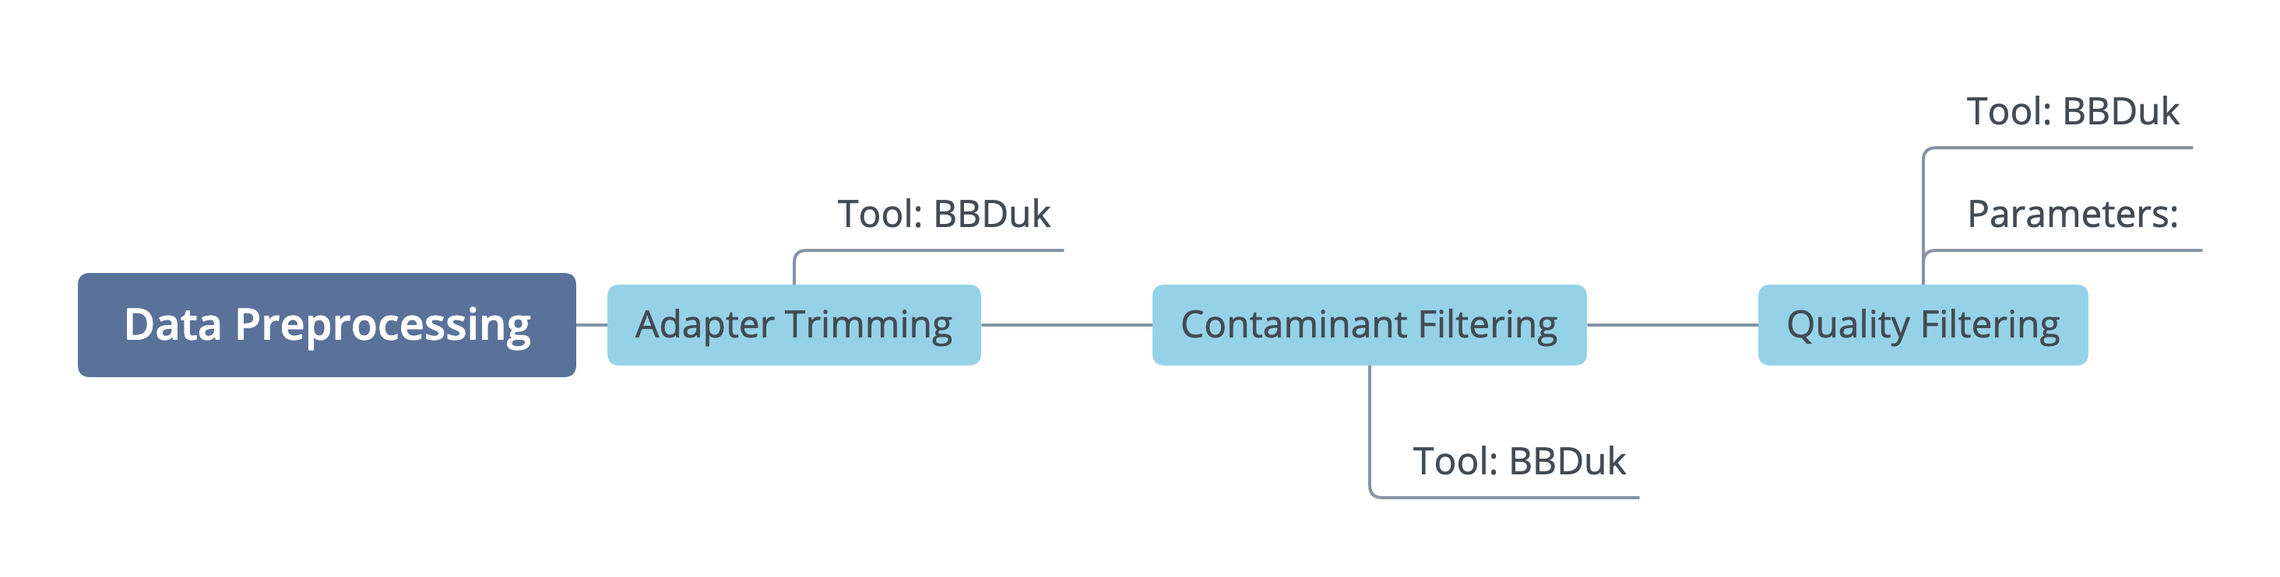
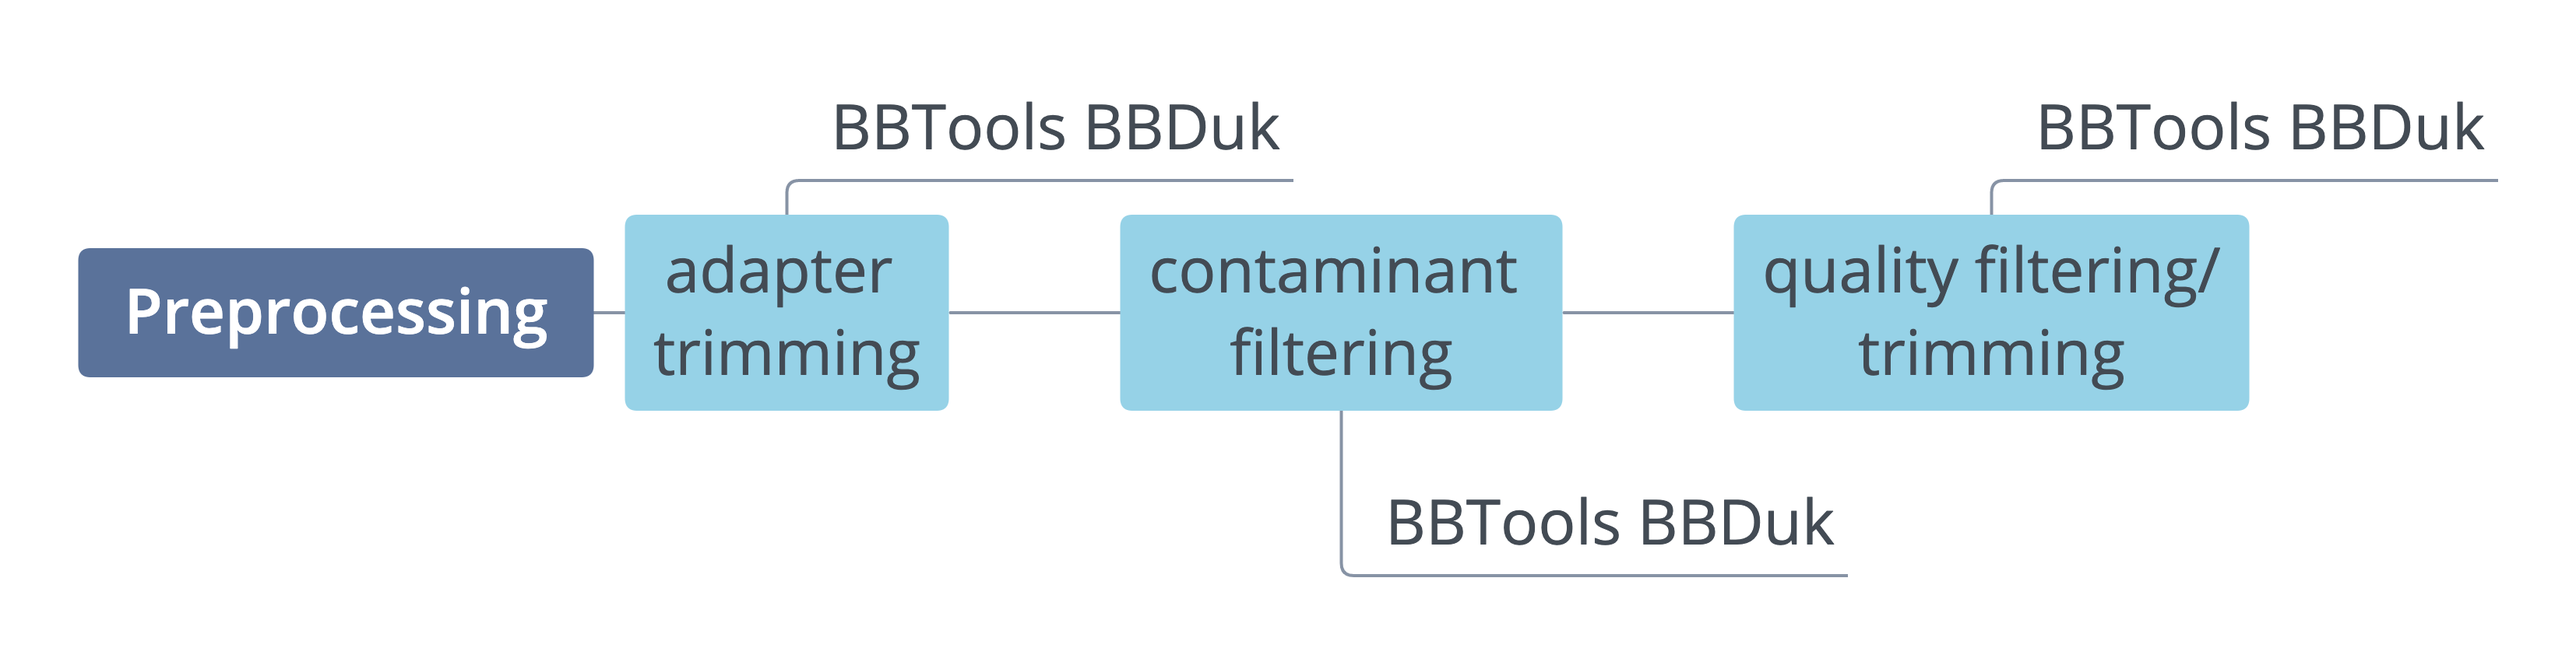
added first 3 preprocessing steps. updated flowchart

diff --git a/docs/preprocessing/preprocessing.rst b/docs/preprocessing/preprocessing.rst
@@ -6,7 +6,7 @@ Data Preprocessing
 General Considerations
 -----------------------
 
-Data quality control and preprocessing is an essential first step to any bioinformatic workflow. Below we discuss current preprocessing steps we recommend for **short read Illumina** sequencing data. Broadly, these steps involve Illumina adapter removal, contaminant filtering and quality-trimming. Additional preprocessing steps, recommended only for specific workflows are detailed in :ref:`Other Considerations`.
+Data quality control is an essential first step to any bioinformatic workflow. Below we discuss recommended preprocessing steps we recommend for **short read Illumina** sequencing data. Broadly, these steps involve Illumina adapter removal, contaminant filtering and quality-trimming. Additional preprocessing steps, recommended only for specific workflows are detailed in :ref:`Other Considerations`.
 
 .. important::
 
@@ -15,14 +15,7 @@ Data quality control and preprocessing is an essential first step to any bioinfo
 
 .. image:: ../images/Preprocessing.png
 
-1.  **Adapter Trimming**. The adapter sequences contain the sequencing primer binding site, index sequences, and sequences that allow flow-cell binding. Unless removed, these can interfere with downstream analyses. For this and other preproccessing we use Joint Genome Institute developed set of tools `BBTools <https://jgi.doe.gov/data-and-tools/bbtools/bb-tools-user-guide/>`_. *Write something about how it workds*. Adpater trimming is perfomed using **BBDuk**. The example command is show below.
-
-    - *-Xmx1G* sets a limit on memory (?)
-    - *usejni=t* ? makes it faster?
-    - *ktrim=r* will trim the bases that match the adapter, as well as all the bases to the right of the adapter sequence
-    - *k=23* length of the k-mer used for matching
-    - *mink=11* additionally look for shorter k-mers (length 23 to 11)
-    - *hdist=1* hamming distance for reference k-mers
+1.  **Adapter Trimming**. The adapter sequences contain the sequencing primer binding site, index sequences, and sequences that allow flow-cell binding. Unless removed, these can interfere with downstream analyses. For this and other preproccessing we use Joint Genome Institute developed set of tools `BBTools <https://jgi.doe.gov/data-and-tools/bbtools/bb-tools-user-guide/>`_. Adpater trimming is perfomed using **BBDuk**. In this step, FASTA file with Illumina adapter sequences is specified as reference, and BBDuk will perform k-mer matching to trim the adapter sequences from the reads. The example command is show below.
 
     **Example command**
         .. code-block:: console
@@ -33,39 +26,66 @@ Data quality control and preprocessing is an essential first step to any bioinfo
             refstats=<output_adapter_stats> statscolumns=5 overwrite=t ref=<input.adapters> \
             ktrim=r k=23 mink=11 hdist=1  2>> <log_file>
 
+**Options Explained**
+
+========    =========================================================================================================
+-Xmx1G      sets a limit on memory (?)
+usejni=t    makes it faster?
+ktrim=r     trim the adapter, as well as all the bases to the right of the adapter sequence
+k=23        length of the k-mer used for matching
+mink=11     additionally match shorter k-mers (with lengths between 23 and 11)
+hdist=1     hamming distance for reference k-mers
+========    =========================================================================================================
+
+
 .. note::
 
     `Why do we only trim adapters on the 3' ends? <https://emea.support.illumina.com/bulletins/2016/04/adapter-trimming-why-are-adapter-sequences-trimmed-from-only-the--ends-of-reads.html>`_
 
-2. Contaminant removal.
+2. **Contaminant removal**. Spike-ins (most commonly PhiX) are usually used for quality control of sequencing runs, as well as to ensure nucleotide diversity when sequencing low complexity libraries. These sequences need to be filtered out prior to downstream analysis.
+
+..note:: PhiX and low complexity libraries: https://emea.support.illumina.com/bulletins/2017/02/how-much-phix-spike-in-is-recommended-when-sequencing-low-divers.html
+https://emea.support.illumina.com/bulletins/2016/07/what-is-nucleotide-diversity-and-why-is-it-important.html Check latest information about your sequencing platform.
+
+    Here we also use BBDuk; the command is very similar to the one shown above, however here we provide FASTA file of PhiX genome as the reference.
 
     **Example command**
 
     .. code-block:: console
 
-        bbduk.sh -Xmx1G usejni=t pigz=t bgzip=f interleaved=true overwrite=t \
-        in=stdin.fq out=stdout.fq outm={output.phix_matched} outs={output.phix_singletons} \
-        ref={input.phix} k=31 hdist=1 refstats={output.phix_stats} statscolumns=5 2>> {log.log}
+        bbduk.sh -Xmx1G usejni=t in=<forward_fastq> in2=<reverse_fastq> \
+        out=<forward_filtered_fastq> out2=<reverse_filtered_fastq> \
+        outm={output.phix_matched} outs={output.phix_singletons} \
+        ref={phix.fasta} k=31 hdist=1 refstats={output.phix_stats} statscolumns=5 2>> {log.log}
 
 
-3. Quality filtering.
+3. **Quality filtering and trimming**. In this step we use BBDuk to trim low quality bases from the ends of the reads, and filter reads based on length, average read quality, and number of Ns present.
+
     **Example command**
 
     .. code-block:: console
 
-        bbduk.sh -Xmx1G pigz=t bgzip=f usejni=t overwrite=t interleaved=true \
-        in=stdin.fq fastawrap=10000 out1={output.fq1_clean} out2={output.fq2_clean} \
-        outm={output.qc_failed} outs={output.qc_singletons} minlength={params.minlen} \
-        qtrim=rl maq={params.maq} maxns=1  stats={output.qc_stats} statscolumns=5 trimq={params.trimq}  2>> {log.log};
+        bbduk.sh -Xmx1G usejni=t in=<forward_fastq> in2=<reverse_fastq>  \
+        fastawrap=10000 out1={output.fq1_clean} out2={output.fq2_clean} \
+        outm={output.qc_failed} outs={output.qc_singletons} minlength=45 \
+        qtrim=rl maq=20 maxns=1  stats={output.qc_stats} statscolumns=5 trimq=14  2>> {log.log};
+
+**Options Explained**
+
+=============    ==========================================================
+minlength=45     filter out reads that are shorter than 45 bp
+qtrim=rl         trim low qualit bases on right and left ends of the reads
+trimq=14         regions with average quality BELOW 14 will be trimmed
+maq=20           filter out reads with average quality below
+maxns=1          filter out reads with more than 1 N
+=============    ==========================================================
 
 .. note::
-
+    Illumina binned quality scores, doesn't seem to effect downstream analysis pathways in our hands.
     `Illumina binned quality scores <https://www.illumina.com/documents/products/whitepapers/whitepaper_datacompression.pdf>`_. `NovaSeq Quality Scores <https://emea.illumina.com/content/dam/illumina-marketing/documents/products/appnotes/novaseq-hiseq-q30-app-note-770-2017-010.pdf>`_.
 
 
-
-
-
+All of the preprocessing commands can be piped together as follows:
 
 .. code-block:: console
 
@@ -87,10 +107,33 @@ Data quality control and preprocessing is an essential first step to any bioinfo
 Other Considerations
 --------------------
 
-.. image:: ../images/Preprocessing2.png
+========================    ==============================================  ===========
+ **Preprocessing Step**               **Recommended for**                    **Tools**
+========================    ==============================================  ===========
+Paired-read merging         Metagenomic assembly, 16S and mOTUs profiling
+Coverage normalization      Metagenomic assembly
+Filtering out host reads    Any samples containing host DNA
+========================    ==============================================  ===========
 
 
-------------------
-Further Reading
-------------------
+Filtering out host reads
+^^^^^^^^^^^^^^^^^^^^^^^^
 
+    **Example Command**
+    .. code-block::
+
+        bbmap.sh -Xmx23g usejni=t threads=20 overwrite=t qin=33 minid=0.95 maxindel=3 bwr=0.16 bw=12 quickmatch fast \
+        minhits=2 path={human_bbmap_ref} qtrim=rl trimq=15 untrim in1={in.1.fq.gz} in2={in.2.fq.gz} outu1={out.1.fq.gz} \
+        outu2={out.2.fq.gz} outm={out.human.matched.fq.gz} 2>> {out.rmHuman.log}
+
+        # This step has to be repeated for singleton sequences generated in the QC step:
+
+        bbmap.sh -Xmx23g usejni=t threads=24 overwrite=t qin=33 minid=0.95 maxindel=3 bwr=0.16 bw=12 quickmatch fast    minhits=2 \
+        path={human_bbmap_ref} qtrim=rl trimq=15 untrim in={in.s.fq.gz} outu={out.s.fq.gz} outm={out.s.human.matched.fq.gz} 2>> {out.rmHuman.log}
+
+Normalization
+^^^^^^^^^^^^^
+
+
+Pair-read Merging
+^^^^^^^^^^^^^^^^^
